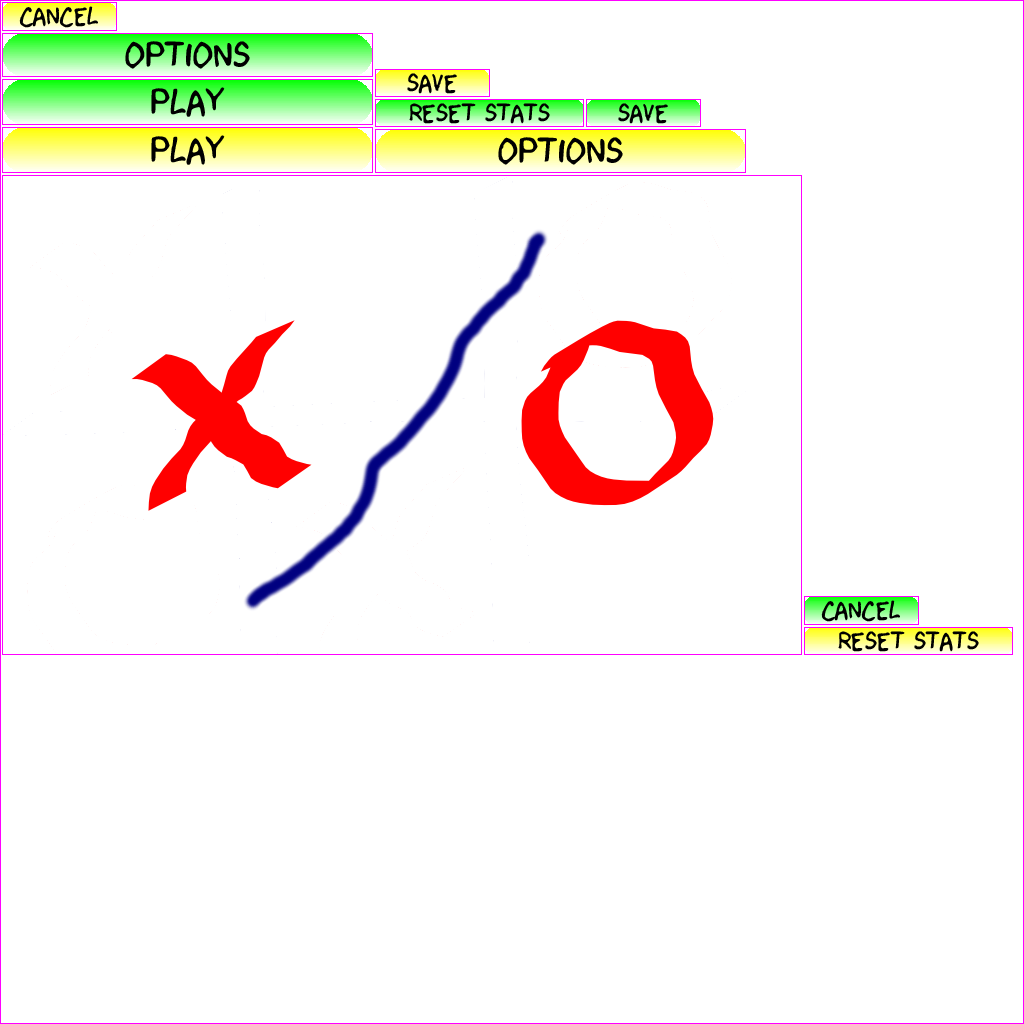
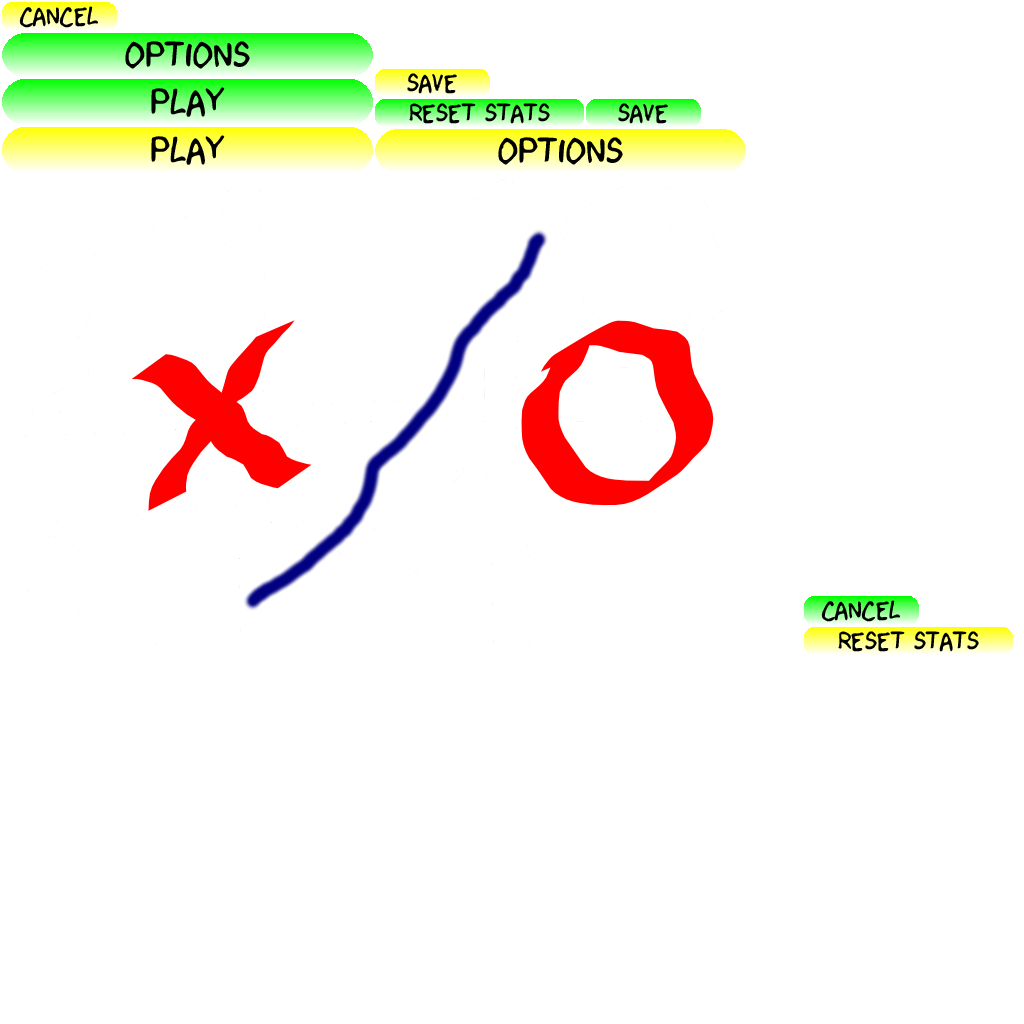
Add class comment docs, remove unused imports

diff --git a/core/src/wit/cgd/xando/game/WorldController.java b/core/src/wit/cgd/xando/game/WorldController.java
@@ -7,18 +7,14 @@ package wit.cgd.xando.game;
  * @brief       Handles player input and handles the update
  * 				for the board.
  *
- * @notes     	Known issue: If the screen is stretched too wide,
- * 							 user input becomes inaccurate  
+ * @notes     	
  */
 
 import com.badlogic.gdx.Gdx;
 import com.badlogic.gdx.Input.Keys;
 import com.badlogic.gdx.Game;
 import wit.cgd.xando.screens.MenuScreen;
-import wit.cgd.xando.game.ai.FirstSpacePlayer;
-import wit.cgd.xando.game.ai.ImpactSpacePlayer;
 import wit.cgd.xando.game.ai.MinimaxPlayer;
-import wit.cgd.xando.game.ai.RandomSpacePlayer;
 import wit.cgd.xando.game.util.GamePreferences;
 import wit.cgd.xando.game.util.GameStats;
 
@@ -26,6 +22,7 @@ import com.badlogic.gdx.InputAdapter;
 import com.badlogic.gdx.graphics.g2d.TextureRegion;
 
 public class WorldController extends InputAdapter{
+	@SuppressWarnings("unused")
 	private static final String TAG = WorldController.class.getName();
 	
 	private Game 				game;
@@ -81,6 +78,7 @@ public class WorldController extends InputAdapter{
         board.start();
     }
 	
+	@SuppressWarnings("static-access")
 	public void update(float deltaTime) {
         if (board.gameState == Board.GameState.PLAYING ) {
             board.move();
@@ -95,6 +93,7 @@ public class WorldController extends InputAdapter{
             	}else{
             		GameStats.instance.draw();
             	}
+            	GameStats.instance.save();
             	backToMenu();
             }
         }
@@ -196,6 +195,11 @@ public class WorldController extends InputAdapter{
 		return false;
 	}
 	
+	/**
+	 * Displays a hint to the player by using a MinimaxPlayer to predict the
+	 * next best move.
+	 * Note: skill level of 4 is used to avoid slow downs while still being helpful
+	 */
 	private void showHint(){
 		MinimaxPlayer hintPlayer = new MinimaxPlayer(board,board.currentPlayer.mySymbols);
 		hintPlayer.skill = 4;
@@ -206,6 +210,10 @@ public class WorldController extends InputAdapter{
 		timeLeftHintDisplay = TIME_LEFT_HINT_DISPLAY;
 	}
 	
+	/**
+	 * Undo moves on the board
+	 * Note: Takes into account the number of human players
+	 */
 	private void undoMove() {
 		if(board.firstPlayer.human && board.secondPlayer.human && !board.movesMade.isEmpty()){
 			int pos = board.movesMade.pop();

diff --git a/core/src/wit/cgd/xando/game/ai/ImpactSpacePlayer.java b/core/src/wit/cgd/xando/game/ai/ImpactSpacePlayer.java
@@ -1,4 +1,20 @@
 package wit.cgd.xando.game.ai;
+/**
+ * @file        ImpactSpacePlayer
+ * @author      Oleksandr Kononov 20071032
+ * @assignment  XandO
+ * @brief       This player takes into the account a number of things
+ * 				before making it's move:
+ * 				-If it can win with next turn, win
+ * 				-If the opponent is about to win, block him
+ * 				-If there is a corner taken attempt to place a
+ * 				 piece in the opposite corner such that the middle
+ * 				 spot required your symbols available number to win
+ * 				-else place your largest piece in a corner
+ * 				-else place a random piece somewhere
+ *
+ * @notes       
+ */
 
 import java.util.ArrayList;
 import java.util.Collections;
@@ -83,23 +99,6 @@ public class ImpactSpacePlayer extends BasePlayer {
 			pos = ThreadLocalRandom.current().nextInt(0, 9);
 			if(board.cells[pos/3][pos%3] == board.EMPTY) return pos;
 		}
-		
-		
-		/*
-		//Check center
-		if(board.cells[1][1] == board.EMPTY) return 4;
-		
-		//Check coners
-		if(board.cells[2][0] == board.EMPTY) return 6;
-		if(board.cells[2][2] == board.EMPTY) return 8;
-		if(board.cells[0][0] == board.EMPTY) return 0;
-		if(board.cells[0][2] == board.EMPTY) return 2;
-		
-		int pos = 0;
-		while(true){
-			pos = ThreadLocalRandom.current().nextInt(0, 9);
-			if(board.cells[pos/3][pos%3] == board.EMPTY) return pos;
-		}*/
 	}
 
 }

diff --git a/core/src/wit/cgd/xando/game/ai/MinimaxPlayer.java b/core/src/wit/cgd/xando/game/ai/MinimaxPlayer.java
@@ -1,14 +1,18 @@
 package wit.cgd.xando.game.ai;
+/**
+ * @file        MinimaxPlayer
+ * @author      Oleksandr Kononov 20071032
+ * @assignment  XandO
+ * @brief       Player that uses the Minimax algorithm to play
+ *
+ * @notes       
+ */
 
-import java.util.ArrayList;
 import java.util.Random;
-
-import com.badlogic.gdx.Gdx;
 
 import wit.cgd.xando.game.BasePlayer;
 import wit.cgd.xando.game.Board;
 import wit.cgd.xando.game.WorldRenderer;
-import wit.cgd.xando.game.util.GamePreferences;
 
 public class MinimaxPlayer extends BasePlayer{
 	
@@ -50,9 +54,6 @@ public class MinimaxPlayer extends BasePlayer{
                 	// skip over used positions
                     if (board.cells[r][c]!=board.EMPTY) continue;
 
-                    //String indent = new String(new char[depth]).replace("\0", "  ");
-                    //Gdx.app.log(indent, "search ("+r+","+c+")");
-
                     // place move 
                     board.cells[r][c] = n;
 
@@ -81,8 +82,6 @@ public class MinimaxPlayer extends BasePlayer{
                         maxPos = 3*r+c;
                         finalValue = n;
                     } 
-
-                    //Gdx.app.log(indent, "Score "+score);
 
                     // undo move 
                     board.cells[r][c] = board.EMPTY;

diff --git a/core/src/wit/cgd/xando/screens/MenuScreen.java b/core/src/wit/cgd/xando/screens/MenuScreen.java
@@ -1,4 +1,14 @@
 package wit.cgd.xando.screens;
+/**
+ * @file        MenuScreen
+ * @author      Oleksandr Kononov 20071032
+ * @assignment  XandO
+ * @brief       Handles all the input and display for the menu screen
+ * 				of the game, here the options can set and game stats
+ * 				can be viewed.
+ *
+ * @notes       
+ */
 
 import com.badlogic.gdx.Game;
 import com.badlogic.gdx.Gdx;
@@ -10,12 +20,10 @@ import com.badlogic.gdx.scenes.scene2d.ui.Button;
 import com.badlogic.gdx.scenes.scene2d.ui.CheckBox;
 import com.badlogic.gdx.scenes.scene2d.ui.Image;
 import com.badlogic.gdx.scenes.scene2d.ui.Label;
-import com.badlogic.gdx.scenes.scene2d.ui.SelectBox;
 import com.badlogic.gdx.scenes.scene2d.ui.Skin;
 import com.badlogic.gdx.scenes.scene2d.ui.Slider;
 import com.badlogic.gdx.scenes.scene2d.ui.Stack;
 import com.badlogic.gdx.scenes.scene2d.ui.Table;
-import com.badlogic.gdx.scenes.scene2d.ui.TextButton;
 import com.badlogic.gdx.scenes.scene2d.ui.Window;
 import com.badlogic.gdx.scenes.scene2d.utils.ChangeListener;
 
@@ -26,6 +34,7 @@ import wit.cgd.xando.game.util.GameStats;
 
 public class MenuScreen extends AbstractGameScreen{
 	
+	@SuppressWarnings("unused")
 	private static final String TAG = MenuScreen.class.getName();
 	
 	private Stage			stage;

diff --git a/core/src/wit/cgd/xando/XandOMain.java b/core/src/wit/cgd/xando/XandOMain.java
@@ -10,18 +10,14 @@ package wit.cgd.xando;
  */
 
 import com.badlogic.gdx.Application;
-import com.badlogic.gdx.ApplicationAdapter;
 import com.badlogic.gdx.Game;
 import com.badlogic.gdx.Gdx;
 import com.badlogic.gdx.assets.AssetManager;
-import com.badlogic.gdx.graphics.GL20;
 
 import wit.cgd.xando.game.Assets;
-import wit.cgd.xando.game.WorldController;
-import wit.cgd.xando.game.WorldRenderer;
 import wit.cgd.xando.game.util.AudioManager;
 import wit.cgd.xando.game.util.GamePreferences;
-import wit.cgd.xando.screens.GameScreen;
+import wit.cgd.xando.game.util.GameStats;
 import wit.cgd.xando.screens.MenuScreen;
 
 public class XandOMain extends Game {
@@ -29,12 +25,13 @@ public class XandOMain extends Game {
 	@Override
 	public void create(){
 		//Set LibGdx log level
-		Gdx.app.setLogLevel(Application.LOG_DEBUG);
+		Gdx.app.setLogLevel(Application.LOG_INFO);
 		//Load assets
 		Assets.instance.init(new AssetManager());
 		
 		// Load preferences for audio settings and start playing music
 		GamePreferences.instance.load();
+		GameStats.instance.load();
 		AudioManager.instance.play(Assets.instance.music.song01);
 		
 		//Start the game at menu screen

diff --git a/core/src/wit/cgd/xando/screens/GameScreen.java b/core/src/wit/cgd/xando/screens/GameScreen.java
@@ -1,15 +1,24 @@
 package wit.cgd.xando.screens;
+/**
+ * @file        GameScreen
+ * @author      Oleksandr Kononov 20071032
+ * @assignment  XandO
+ * @brief       Runs the worldController and worldRenderer for 
+ * 				the actual game
+ *
+ * @notes       
+ */
 
 import com.badlogic.gdx.Game;
 import com.badlogic.gdx.Gdx;
 import com.badlogic.gdx.graphics.GL20;
 
-import wit.cgd.xando.XandOMain;
 import wit.cgd.xando.game.WorldController;
 import wit.cgd.xando.game.WorldRenderer;
 
 public class GameScreen extends AbstractGameScreen{
 	
+	@SuppressWarnings("unused")
 	private static final String TAG = GameScreen.class.getName();
 	
 	private WorldController		worldController;

diff --git a/core/src/wit/cgd/xando/game/Assets.java b/core/src/wit/cgd/xando/game/Assets.java
@@ -27,7 +27,6 @@ import wit.cgd.xando.game.util.Constants;
 
 public class Assets implements Disposable, AssetErrorListener {
 
-	@SuppressWarnings("unused")
 	private static final String	TAG	= WorldRenderer.class.getName(); 
 
 	public static final Assets instance = new Assets();
@@ -165,7 +164,7 @@ public class Assets implements Disposable, AssetErrorListener {
 		assetManager.dispose(); 	
 	}
 	
-	@Override public void error(AssetDescriptor asset, Throwable throwable) {
+	@Override public void error(@SuppressWarnings("rawtypes") AssetDescriptor asset, Throwable throwable) {
         Gdx.app.error(TAG, "Couldn't load asset '" + asset + "'", (Exception) throwable);
 	}
 }

diff --git a/core/src/wit/cgd/xando/game/Board.java b/core/src/wit/cgd/xando/game/Board.java
@@ -1,4 +1,14 @@
 package wit.cgd.xando.game;
+/**
+ * @file        Board
+ * @author      Oleksandr Kononov 20071032
+ * @assignment  XandO
+ * @brief       Handles all matter related to the board including
+ * 				winning,losing and drawing conditions as well as 
+ * 				Players and pieces on the board
+ *
+ * @notes       
+ */
 
 import java.util.ArrayList;
 import java.util.Stack;

diff --git a/core/src/wit/cgd/xando/game/ai/RandomSpacePlayer.java b/core/src/wit/cgd/xando/game/ai/RandomSpacePlayer.java
@@ -1,4 +1,13 @@
 package wit.cgd.xando.game.ai;
+/**
+ * @file        RandomSpacePlayer
+ * @author      Oleksandr Kononov 20071032
+ * @assignment  XandO
+ * @brief       Player that uses random available spaces and numbers
+ * 				to play
+ *
+ * @notes       
+ */
 
 import java.util.ArrayList;
 import java.util.concurrent.ThreadLocalRandom;

diff --git a/core/src/wit/cgd/xando/game/util/GameStats.java b/core/src/wit/cgd/xando/game/util/GameStats.java
@@ -1,4 +1,13 @@
 package wit.cgd.xando.game.util;
+/**
+ * @file        GameStats
+ * @author      Oleksandr Kononov 20071032
+ * @assignment  XandO
+ * @brief       Game stats that are displayed on the menu screen
+ * 				are held here
+ *
+ * @notes       
+ */
 
 import com.badlogic.gdx.Gdx;
 import com.badlogic.gdx.Preferences;

diff --git a/core/src/wit/cgd/xando/game/ai/FirstSpacePlayer.java b/core/src/wit/cgd/xando/game/ai/FirstSpacePlayer.java
@@ -9,7 +9,7 @@ import wit.cgd.xando.game.WorldRenderer;
  * @author      Oleksandr Kononov 20071032
  * @assignment  XandO
  * @brief       A simple AI player that is the opponent to the human player,
- * 				find the next available space
+ * 				find the next available space and next available number
  *
  * @notes       
  */

diff --git a/desktop/src/wit/cgd/xando/desktop/DesktopLauncher.java b/desktop/src/wit/cgd/xando/desktop/DesktopLauncher.java
@@ -18,7 +18,7 @@ import wit.cgd.xando.XandOMain;
 public class DesktopLauncher {
 	
 	private static boolean  rebuildAtlas        = true;
-    private static boolean  drawDebugOutline    = true;
+    private static boolean  drawDebugOutline    = false;
 	
 	public static void main (String[] arg) {
 		if(rebuildAtlas){
